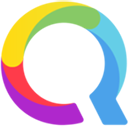
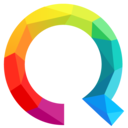
better images

diff --git a/script.js b/script.js
@@ -4,7 +4,7 @@ window.onload = function () {
 
   /* #region  Logo svg */
   document.querySelector('[class*="SearchHeaderLogo"]').innerHTML =
-    '<svg xmlns="http://www.w3.org/2000/svg" xlink="http://www.w3.org/1999/xlink" style="padding-top: 15px;" viewBox="0 0 120 120" class="QwantLogo-module__logoWithText___1u1Cr QwantLogo-module__logoWithText___1u1Cr Qwoodle-module__QwantLogo___1YNDL" data-testid="logo" aria-label="Qwant"><defs><path id="logo-qwant_svg__a" d="M97.821 133.706c1.085 1.282 1.627 2.853 1.627 4.798 0 2.067-.626 3.722-1.835 5.003-1.21 1.283-2.753 1.944-4.63 1.944-1.876 0-3.42-.661-4.629-1.944-1.084-1.158-1.71-2.646-1.793-4.466 0 0-.417-3.185 1.793-5.542 1.21-1.282 2.753-1.943 4.671-1.943 0 .04 2.878-.125 4.796 2.15zm46.712-13.606a.73.73 0 01.75.661v5.832h6.84c.417 0 .75.33.75.703v4.053c0 .372-.291.661-.666.703h-6.924v8.891c0 1.654.292 2.854.876 3.598.584.703 1.543 1.076 2.92 1.076 1.21 0 2.293-.166 3.336-.58.042-.04.125-.04.167-.082.083-.041.125-.041.209-.041.375 0 .667.248.709.62l.5 4.012v.108a.321.321 0 01-.042.099c-.041.289-.209.537-.458.62a12.93 12.93 0 01-2.336.744c-1.168.248-2.42.372-3.67.372-3.003 0-5.255-.785-6.715-2.316-1.501-1.53-2.21-3.887-2.21-7.03v-10.091h-4.13c-.333-.042-.583-.331-.583-.703v-3.97c0-.414.333-.745.75-.745h4.004v-5.831a.764.764 0 01.75-.703zm-125.495-6.204c2.127-.165 4.338-.041 6.423.414a19.99 19.99 0 015.63 2.233c1.627.992 3.086 2.192 4.338 3.64 1.334 1.57 2.46 3.35 3.211 5.252a18.835 18.835 0 011.293 6.575 19.322 19.322 0 01-.876 6.163c-.334.95-.709 1.86-1.168 2.77-.25.455-.5.91-.75 1.324-.209.372-.626.785-.543 1.282.042.207.167.414.25.579l2.17 3.887c.333.662.708 1.282 1.042 1.944.334.579-.125 1.282-.792 1.282h-5.464c-.292 0-.625.041-.876-.124-.333-.207-.542-.744-.709-1.117l-3.545-6.989a.79.79 0 01-.041-.62c.083-.248.25-.414.458-.58 1.335-1.199 2.461-2.729 3.17-4.383a11.521 11.521 0 001.001-5.542 12.178 12.178 0 00-1.96-5.955 12.629 12.629 0 00-3.796-3.764c-1.668-1.075-3.586-1.695-5.588-1.902a12.253 12.253 0 00-6.423 1.117 12.381 12.381 0 00-4.754 3.887 11.935 11.935 0 00-2.336 5.831c-.25 2.15.042 4.343.918 6.328a12.257 12.257 0 003.878 4.963c1.71 1.323 3.795 2.15 5.923 2.44 1.126.166 2.293.166 3.42 0 .291-.041.583-.083.834-.124.208-.042.417-.124.667-.042.25.083.417.29.542.497.417.827.834 1.613 1.251 2.44.209.455.459.868.668 1.324.166.371.417.702.25 1.116-.209.496-.71.579-1.168.703-.542.124-1.126.248-1.668.33a38.66 38.66 0 01-3.087.249 16.598 16.598 0 01-3.21-.207 22.392 22.392 0 01-3.296-.744 18.48 18.48 0 01-5.463-2.813c-1.669-1.282-3.128-2.812-4.254-4.59-1.126-1.779-2.002-3.805-2.461-5.873a21.194 21.194 0 01-.375-6.493 18.366 18.366 0 011.751-6.286c.918-1.944 2.21-3.764 3.796-5.252a18.227 18.227 0 015.38-3.598c2.002-.91 4.17-1.407 6.34-1.572zm72.528 11.828c1.668 0 3.17.373 4.504 1.034 1.334.662 2.419 1.613 3.211 2.854l.084-2.565v-.04c.041-.373.333-.62.709-.62h4.921c.417 0 .75.33.75.743v22.664a.744.744 0 01-.75.744h-4.921c-.334 0-.668-.29-.71-.62l-.083-2.44c-1.46 2.357-4.045 3.184-4.045 3.184-1.168.455-2.503.662-4.004.662-2.127 0-4.046-.538-5.756-1.571-1.71-1.034-3.044-2.524-4.045-4.467-.918-1.82-1.418-3.887-1.46-6.204v-.496c0-2.316.5-4.467 1.46-6.41.96-1.944 2.335-3.474 4.129-4.674 1.751-1.199 3.795-1.778 6.006-1.778zm32.322.042c2.836 0 5.046.909 6.548 2.646 1.501 1.778 2.252 4.301 2.252 7.61v13.896a.745.745 0 01-.75.744h-5.214c-.334 0-.626-.207-.709-.496v-12.903c0-3.764-1.46-5.625-4.338-5.625-1.584 0-2.836.496-3.711 1.572-.876 1.034-1.335 2.523-1.335 4.466v12.49c-.125.29-.375.496-.709.496h-5.213a.744.744 0 01-.751-.744v-22.664c0-.413.334-.744.75-.744h4.964c.375 0 .667.248.709.62l.167 2.358c.667-1.2 1.668-2.11 2.92-2.771 1.25-.62 2.752-.951 4.42-.951zm-60.766.661c.292 0 .542.166.667.414l5.213 16.212 4.38-16.047c.083-.29.375-.496.709-.496h5.255c.417 0 .75.33.75.744 0 .083 0 .124-.041.207l-7.633 22.746a.744.744 0 01-.667.414h-4.963a.744.744 0 01-.667-.414l-5.339-15.467-5.13 15.508c-.125.207-.375.373-.625.373h-4.88a.715.715 0 01-.667-.455l-7.632-22.953c0-.414.333-.745.75-.745h5.422c.25.042.5.207.584.414l4.337 16.088 5.005-16.088c.125-.248.376-.455.667-.455h4.505z"></path></defs><path fill="#AF27CC" d="M89.192 92.077c-1.343.33-2.703.592-4.07.8-2.478.373-4.981.53-7.485.635-2.592.108-5.241-.127-7.807-.487-2.729-.383-5.424-1-8.044-1.848-4.785-1.547-9.315-3.867-13.324-6.902a43.457 43.457 0 01-3.686-3.123 42.864 42.864 0 01-6.668-8.066c-2.81-4.412-4.872-9.295-6.013-14.396-1.162-5.197-1.379-10.9-.865-16.198l.01-.121c.498 7.528 3.027 14.76 7.174 20.566a40.113 40.113 0 0029.49 16.668c1.068.086 2.15.13 3.24.13a40.27 40.27 0 0014.102-2.53c.068.011.137.028.207.05.605.19 1.034.624 1.317 1.178 1.018 1.987 2.008 3.99 3.01 5.983.034.071.07.14.105.21.514 1.016 1.024 2.035 1.536 3.051.431.86.95 1.68.591 2.684-.44 1.235-1.693 1.438-2.82 1.716z"></path><path fill="#FF3B4A" d="M31.255 42.35c0 4.428 3.526 8.03 7.925 8.164a8.18 8.18 0 008.3-6.665c-.016.117-.03.233-.043.35-.605 5.235.157 10.606 2.243 15.452a30.442 30.442 0 009.466 12.113c4.171 3.18 9.165 5.261 14.372 5.947a30.762 30.762 0 0010.267-.374c.498-.105.966-.226 1.46-.132a40.26 40.26 0 01-14.1 2.53 40.35 40.35 0 01-3.24-.13 40.113 40.113 0 01-29.491-16.668c-4.147-5.806-6.676-13.038-7.173-20.566"></path><path fill="#FFDA12" d="M77.455 1.674c-1.409.003-2.816.06-4.217.17-5.327.414-10.58 1.672-15.459 3.857a46.62 46.62 0 00-13.101 8.84c-3.839 3.678-6.976 8.066-9.274 12.853-2.107 4.384-3.473 9.096-4.092 13.913l.009.002a8.143 8.143 0 00-.066 1.042c0 4.427 3.526 8.03 7.925 8.163a8.181 8.181 0 008.301-6.665v-.008c.031-.24.063-.479.1-.716 0-.004 0-.009.002-.011l.07-.44a40.017 40.017 0 012.481-12.017c5.662-15.131 20.187-25.9 37.214-25.9.812 0 1.617.025 2.416.075 2.739.165 5.4.609 7.96 1.304h.002l.01.002c.551.091 1.083.24 1.59.435a46.758 46.758 0 00-10.457-3.675 50.659 50.659 0 00-6.417-1 53.174 53.174 0 00-4.805-.224h-.192z"></path><path fill="#87C966" d="M104.538 14.186a8.18 8.18 0 01-.577 3.023 8.183 8.183 0 01-7.6 5.14 8.168 8.168 0 01-3.897-.984l-.002.005c-3.766-2.12-7.928-3.381-12.244-3.798-5.342-.515-10.762.492-15.604 2.773a30.205 30.205 0 00-6.545 4.19 30.415 30.415 0 00-5 5.332 30.257 30.257 0 00-5.415 12.807 39.986 39.986 0 012.48-12.017c5.662-15.131 20.187-25.9 37.214-25.9.812 0 1.617.025 2.416.075 2.739.165 5.4.609 7.96 1.304h.002l.01.002c.593.16 1.184.335 1.766.524.44.217.88.442 1.314.677.007.002.012.007.016.01a8.152 8.152 0 013.706 6.837"></path><path fill="#65CEE7" d="M122.08 61.301a45.252 45.252 0 01-2.798 6.829c-.23.45-.468.9-.716 1.344a42.79 42.79 0 01-1.077 1.855c-.4.647-1.058 1.418-1.323 2.161l.036-.113c.232-.613.45-1.232.652-1.86a40.19 40.19 0 001.929-12.33c0-8.923-2.91-17.167-7.837-23.836a40.37 40.37 0 00-18.062-13.737c-.14-.085-.281-.164-.423-.244l.003-.004a8.18 8.18 0 003.897.984 8.184 8.184 0 007.6-5.14 8.193 8.193 0 00.577-3.024 8.155 8.155 0 00-3.706-6.838c.59.319 1.173.65 1.748.994a43.808 43.808 0 0110.596 8.865c3.306 3.812 5.994 8.18 7.843 12.874 2.017 5.117 3.01 10.613 3.138 16.102.12 5.13-.525 10.221-2.077 15.118"></path><path fill="#4BA2EA" d="M105.28 90.446c.442.879.865 2.198 1.764 2.72.65.376 1.435.29 2.156.29l13.284-.003c1.595-.032 2.715-1.71 1.933-3.17-.84-1.578-1.68-3.157-2.517-4.736l-5.13-9.64c-.238-.443-.553-.912-.639-1.413 0 0-.187-.294.07-1.117.233-.613.45-1.233.653-1.859a40.203 40.203 0 001.929-12.332c0-8.922-2.91-17.166-7.837-23.835a40.37 40.37 0 00-18.062-13.737c.321.187.639.38.953.58a30.491 30.491 0 019.245 9.218 30.26 30.26 0 014.726 14.591c.26 4.644-.554 9.34-2.389 13.617a29.74 29.74 0 01-2.31 4.351 30.569 30.569 0 01-5.444 6.369c-.475.422-.945.768-1.144 1.399a2.233 2.233 0 00.078 1.567l8.68 17.14z"></path></g></svg>';
+    '<svg xmlns="http://www.w3.org/2000/svg" xlink="http://www.w3.org/1999/xlink" style="padding-top: 15px;" viewBox="0 0 120 120" class="QwantLogo-module__logoWithText___1u1Cr QwantLogo-module__logoWithText___1u1Cr Qwoodle-module__QwantLogo___1YNDL" data-testid="logo" aria-label="Qwant"><defs><path id="logo-qwant_svg__a" d="M97.821 133.706c1.085 1.282 1.627 2.853 1.627 4.798 0 2.067-.626 3.722-1.835 5.003-1.21 1.283-2.753 1.944-4.63 1.944-1.876 0-3.42-.661-4.629-1.944-1.084-1.158-1.71-2.646-1.793-4.466 0 0-.417-3.185 1.793-5.542 1.21-1.282 2.753-1.943 4.671-1.943 0 .04 2.878-.125 4.796 2.15zm46.712-13.606a.73.73 0 01.75.661v5.832h6.84c.417 0 .75.33.75.703v4.053c0 .372-.291.661-.666.703h-6.924v8.891c0 1.654.292 2.854.876 3.598.584.703 1.543 1.076 2.92 1.076 1.21 0 2.293-.166 3.336-.58.042-.04.125-.04.167-.082.083-.041.125-.041.209-.041.375 0 .667.248.709.62l.5 4.012v.108a.321.321 0 01-.042.099c-.041.289-.209.537-.458.62a12.93 12.93 0 01-2.336.744c-1.168.248-2.42.372-3.67.372-3.003 0-5.255-.785-6.715-2.316-1.501-1.53-2.21-3.887-2.21-7.03v-10.091h-4.13c-.333-.042-.583-.331-.583-.703v-3.97c0-.414.333-.745.75-.745h4.004v-5.831a.764.764 0 01.75-.703zm-125.495-6.204c2.127-.165 4.338-.041 6.423.414a19.99 19.99 0 015.63 2.233c1.627.992 3.086 2.192 4.338 3.64 1.334 1.57 2.46 3.35 3.211 5.252a18.835 18.835 0 011.293 6.575 19.322 19.322 0 01-.876 6.163c-.334.95-.709 1.86-1.168 2.77-.25.455-.5.91-.75 1.324-.209.372-.626.785-.543 1.282.042.207.167.414.25.579l2.17 3.887c.333.662.708 1.282 1.042 1.944.334.579-.125 1.282-.792 1.282h-5.464c-.292 0-.625.041-.876-.124-.333-.207-.542-.744-.709-1.117l-3.545-6.989a.79.79 0 01-.041-.62c.083-.248.25-.414.458-.58 1.335-1.199 2.461-2.729 3.17-4.383a11.521 11.521 0 001.001-5.542 12.178 12.178 0 00-1.96-5.955 12.629 12.629 0 00-3.796-3.764c-1.668-1.075-3.586-1.695-5.588-1.902a12.253 12.253 0 00-6.423 1.117 12.381 12.381 0 00-4.754 3.887 11.935 11.935 0 00-2.336 5.831c-.25 2.15.042 4.343.918 6.328a12.257 12.257 0 003.878 4.963c1.71 1.323 3.795 2.15 5.923 2.44 1.126.166 2.293.166 3.42 0 .291-.041.583-.083.834-.124.208-.042.417-.124.667-.042.25.083.417.29.542.497.417.827.834 1.613 1.251 2.44.209.455.459.868.668 1.324.166.371.417.702.25 1.116-.209.496-.71.579-1.168.703-.542.124-1.126.248-1.668.33a38.66 38.66 0 01-3.087.249 16.598 16.598 0 01-3.21-.207 22.392 22.392 0 01-3.296-.744 18.48 18.48 0 01-5.463-2.813c-1.669-1.282-3.128-2.812-4.254-4.59-1.126-1.779-2.002-3.805-2.461-5.873a21.194 21.194 0 01-.375-6.493 18.366 18.366 0 011.751-6.286c.918-1.944 2.21-3.764 3.796-5.252a18.227 18.227 0 015.38-3.598c2.002-.91 4.17-1.407 6.34-1.572zm72.528 11.828c1.668 0 3.17.373 4.504 1.034 1.334.662 2.419 1.613 3.211 2.854l.084-2.565v-.04c.041-.373.333-.62.709-.62h4.921c.417 0 .75.33.75.743v22.664a.744.744 0 01-.75.744h-4.921c-.334 0-.668-.29-.71-.62l-.083-2.44c-1.46 2.357-4.045 3.184-4.045 3.184-1.168.455-2.503.662-4.004.662-2.127 0-4.046-.538-5.756-1.571-1.71-1.034-3.044-2.524-4.045-4.467-.918-1.82-1.418-3.887-1.46-6.204v-.496c0-2.316.5-4.467 1.46-6.41.96-1.944 2.335-3.474 4.129-4.674 1.751-1.199 3.795-1.778 6.006-1.778zm32.322.042c2.836 0 5.046.909 6.548 2.646 1.501 1.778 2.252 4.301 2.252 7.61v13.896a.745.745 0 01-.75.744h-5.214c-.334 0-.626-.207-.709-.496v-12.903c0-3.764-1.46-5.625-4.338-5.625-1.584 0-2.836.496-3.711 1.572-.876 1.034-1.335 2.523-1.335 4.466v12.49c-.125.29-.375.496-.709.496h-5.213a.744.744 0 01-.751-.744v-22.664c0-.413.334-.744.75-.744h4.964c.375 0 .667.248.709.62l.167 2.358c.667-1.2 1.668-2.11 2.92-2.771 1.25-.62 2.752-.951 4.42-.951zm-60.766.661c.292 0 .542.166.667.414l5.213 16.212 4.38-16.047c.083-.29.375-.496.709-.496h5.255c.417 0 .75.33.75.744 0 .083 0 .124-.041.207l-7.633 22.746a.744.744 0 01-.667.414h-4.963a.744.744 0 01-.667-.414l-5.339-15.467-5.13 15.508c-.125.207-.375.373-.625.373h-4.88a.715.715 0 01-.667-.455l-7.632-22.953c0-.414.333-.745.75-.745h5.422c.25.042.5.207.584.414l4.337 16.088 5.005-16.088c.125-.248.376-.455.667-.455h4.505z"></path></defs><path fill="#7D1098" d="M89.192 92.077c-1.343.33-2.703.592-4.07.8-2.478.373-4.981.53-7.485.635-2.592.108-5.241-.127-7.807-.487-2.729-.383-5.424-1-8.044-1.848-4.785-1.547-9.315-3.867-13.324-6.902a43.457 43.457 0 01-3.686-3.123 42.864 42.864 0 01-6.668-8.066c-2.81-4.412-4.872-9.295-6.013-14.396-1.162-5.197-1.379-10.9-.865-16.198l.01-.121c.498 7.528 3.027 14.76 7.174 20.566a40.113 40.113 0 0029.49 16.668c1.068.086 2.15.13 3.24.13a40.27 40.27 0 0014.102-2.53c.068.011.137.028.207.05.605.19 1.034.624 1.317 1.178 1.018 1.987 2.008 3.99 3.01 5.983.034.071.07.14.105.21.514 1.016 1.024 2.035 1.536 3.051.431.86.95 1.68.591 2.684-.44 1.235-1.693 1.438-2.82 1.716z"></path><path fill="#DA0100" d="M31.255 42.35c0 4.428 3.526 8.03 7.925 8.164a8.18 8.18 0 008.3-6.665c-.016.117-.03.233-.043.35-.605 5.235.157 10.606 2.243 15.452a30.442 30.442 0 009.466 12.113c4.171 3.18 9.165 5.261 14.372 5.947a30.762 30.762 0 0010.267-.374c.498-.105.966-.226 1.46-.132a40.26 40.26 0 01-14.1 2.53 40.35 40.35 0 01-3.24-.13 40.113 40.113 0 01-29.491-16.668c-4.147-5.806-6.676-13.038-7.173-20.566"></path><path fill="#FBC117" d="M77.455 1.674c-1.409.003-2.816.06-4.217.17-5.327.414-10.58 1.672-15.459 3.857a46.62 46.62 0 00-13.101 8.84c-3.839 3.678-6.976 8.066-9.274 12.853-2.107 4.384-3.473 9.096-4.092 13.913l.009.002a8.143 8.143 0 00-.066 1.042c0 4.427 3.526 8.03 7.925 8.163a8.181 8.181 0 008.301-6.665v-.008c.031-.24.063-.479.1-.716 0-.004 0-.009.002-.011l.07-.44a40.017 40.017 0 012.481-12.017c5.662-15.131 20.187-25.9 37.214-25.9.812 0 1.617.025 2.416.075 2.739.165 5.4.609 7.96 1.304h.002l.01.002c.551.091 1.083.24 1.59.435a46.758 46.758 0 00-10.457-3.675 50.659 50.659 0 00-6.417-1 53.174 53.174 0 00-4.805-.224h-.192z"></path><path fill="#279846" d="M104.538 14.186a8.18 8.18 0 01-.577 3.023 8.183 8.183 0 01-7.6 5.14 8.168 8.168 0 01-3.897-.984l-.002.005c-3.766-2.12-7.928-3.381-12.244-3.798-5.342-.515-10.762.492-15.604 2.773a30.205 30.205 0 00-6.545 4.19 30.415 30.415 0 00-5 5.332 30.257 30.257 0 00-5.415 12.807 39.986 39.986 0 012.48-12.017c5.662-15.131 20.187-25.9 37.214-25.9.812 0 1.617.025 2.416.075 2.739.165 5.4.609 7.96 1.304h.002l.01.002c.593.16 1.184.335 1.766.524.44.217.88.442 1.314.677.007.002.012.007.016.01a8.152 8.152 0 013.706 6.837"></path><path fill="#33BFF0" d="M122.08 61.301a45.252 45.252 0 01-2.798 6.829c-.23.45-.468.9-.716 1.344a42.79 42.79 0 01-1.077 1.855c-.4.647-1.058 1.418-1.323 2.161l.036-.113c.232-.613.45-1.232.652-1.86a40.19 40.19 0 001.929-12.33c0-8.923-2.91-17.167-7.837-23.836a40.37 40.37 0 00-18.062-13.737c-.14-.085-.281-.164-.423-.244l.003-.004a8.18 8.18 0 003.897.984 8.184 8.184 0 007.6-5.14 8.193 8.193 0 00.577-3.024 8.155 8.155 0 00-3.706-6.838c.59.319 1.173.65 1.748.994a43.808 43.808 0 0110.596 8.865c3.306 3.812 5.994 8.18 7.843 12.874 2.017 5.117 3.01 10.613 3.138 16.102.12 5.13-.525 10.221-2.077 15.118"></path><path fill="#2E7CEE" d="M105.28 90.446c.442.879.865 2.198 1.764 2.72.65.376 1.435.29 2.156.29l13.284-.003c1.595-.032 2.715-1.71 1.933-3.17-.84-1.578-1.68-3.157-2.517-4.736l-5.13-9.64c-.238-.443-.553-.912-.639-1.413 0 0-.187-.294.07-1.117.233-.613.45-1.233.653-1.859a40.203 40.203 0 001.929-12.332c0-8.922-2.91-17.166-7.837-23.835a40.37 40.37 0 00-18.062-13.737c.321.187.639.38.953.58a30.491 30.491 0 019.245 9.218 30.26 30.26 0 014.726 14.591c.26 4.644-.554 9.34-2.389 13.617a29.74 29.74 0 01-2.31 4.351 30.569 30.569 0 01-5.444 6.369c-.475.422-.945.768-1.144 1.399a2.233 2.233 0 00.078 1.567l8.68 17.14z"></path></g></svg>';
   /* #endregion */
 
   //set logo visible after src change

diff --git a/styles.css b/styles.css
@@ -73,7 +73,7 @@ body[data-theme="dark"] [class*="SearchHeaderBurger"] {
   width: 100%;
   margin: auto;
   background-color: #131416;
-  border-top: 1px solid #2f3237!important;
+  border-top: 1px solid #2f3237 !important;
   padding-top: 10px;
 }
 
@@ -103,7 +103,6 @@ body[data-theme="dark"] #wiki > g > path {
 body[data-theme="light"][data-device="desktop"] #wiki > g > path {
   fill: rgb(0, 0, 0);
 }
-
 
 /* Hide mobile footer */
 
@@ -345,7 +344,7 @@ button[type="reset"] {
 
 /* Footer */
 footer * {
-  background-color: transparent!important;
+  background-color: transparent !important;
 }
 
 body[data-theme="light"] footer {
@@ -353,5 +352,5 @@ body[data-theme="light"] footer {
 }
 
 body[data-theme="dark"] footer {
-  border-top: 1px solid #2f3237!important;
+  border-top: 1px solid #2f3237 !important;
 }
